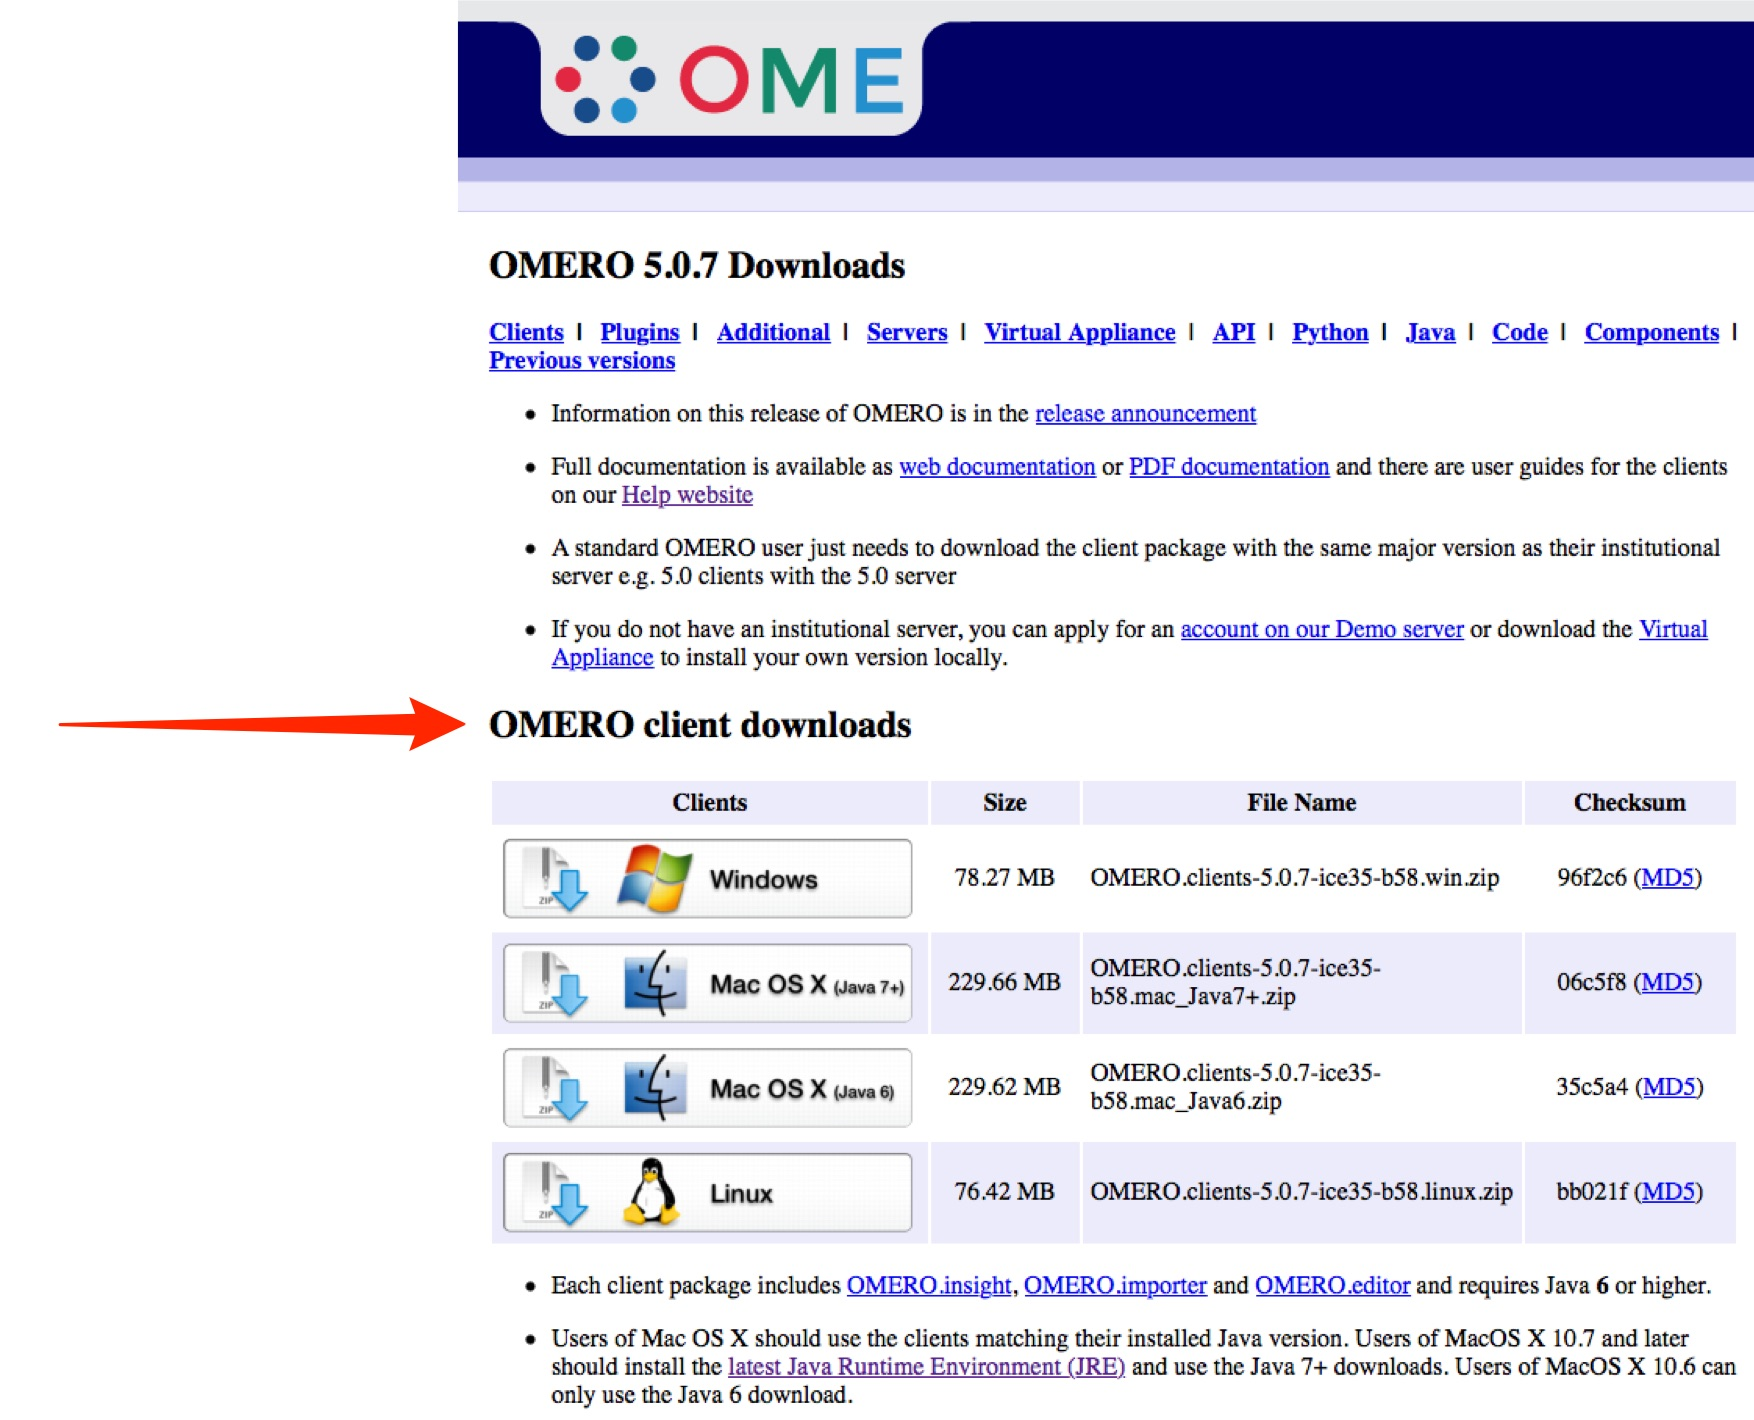
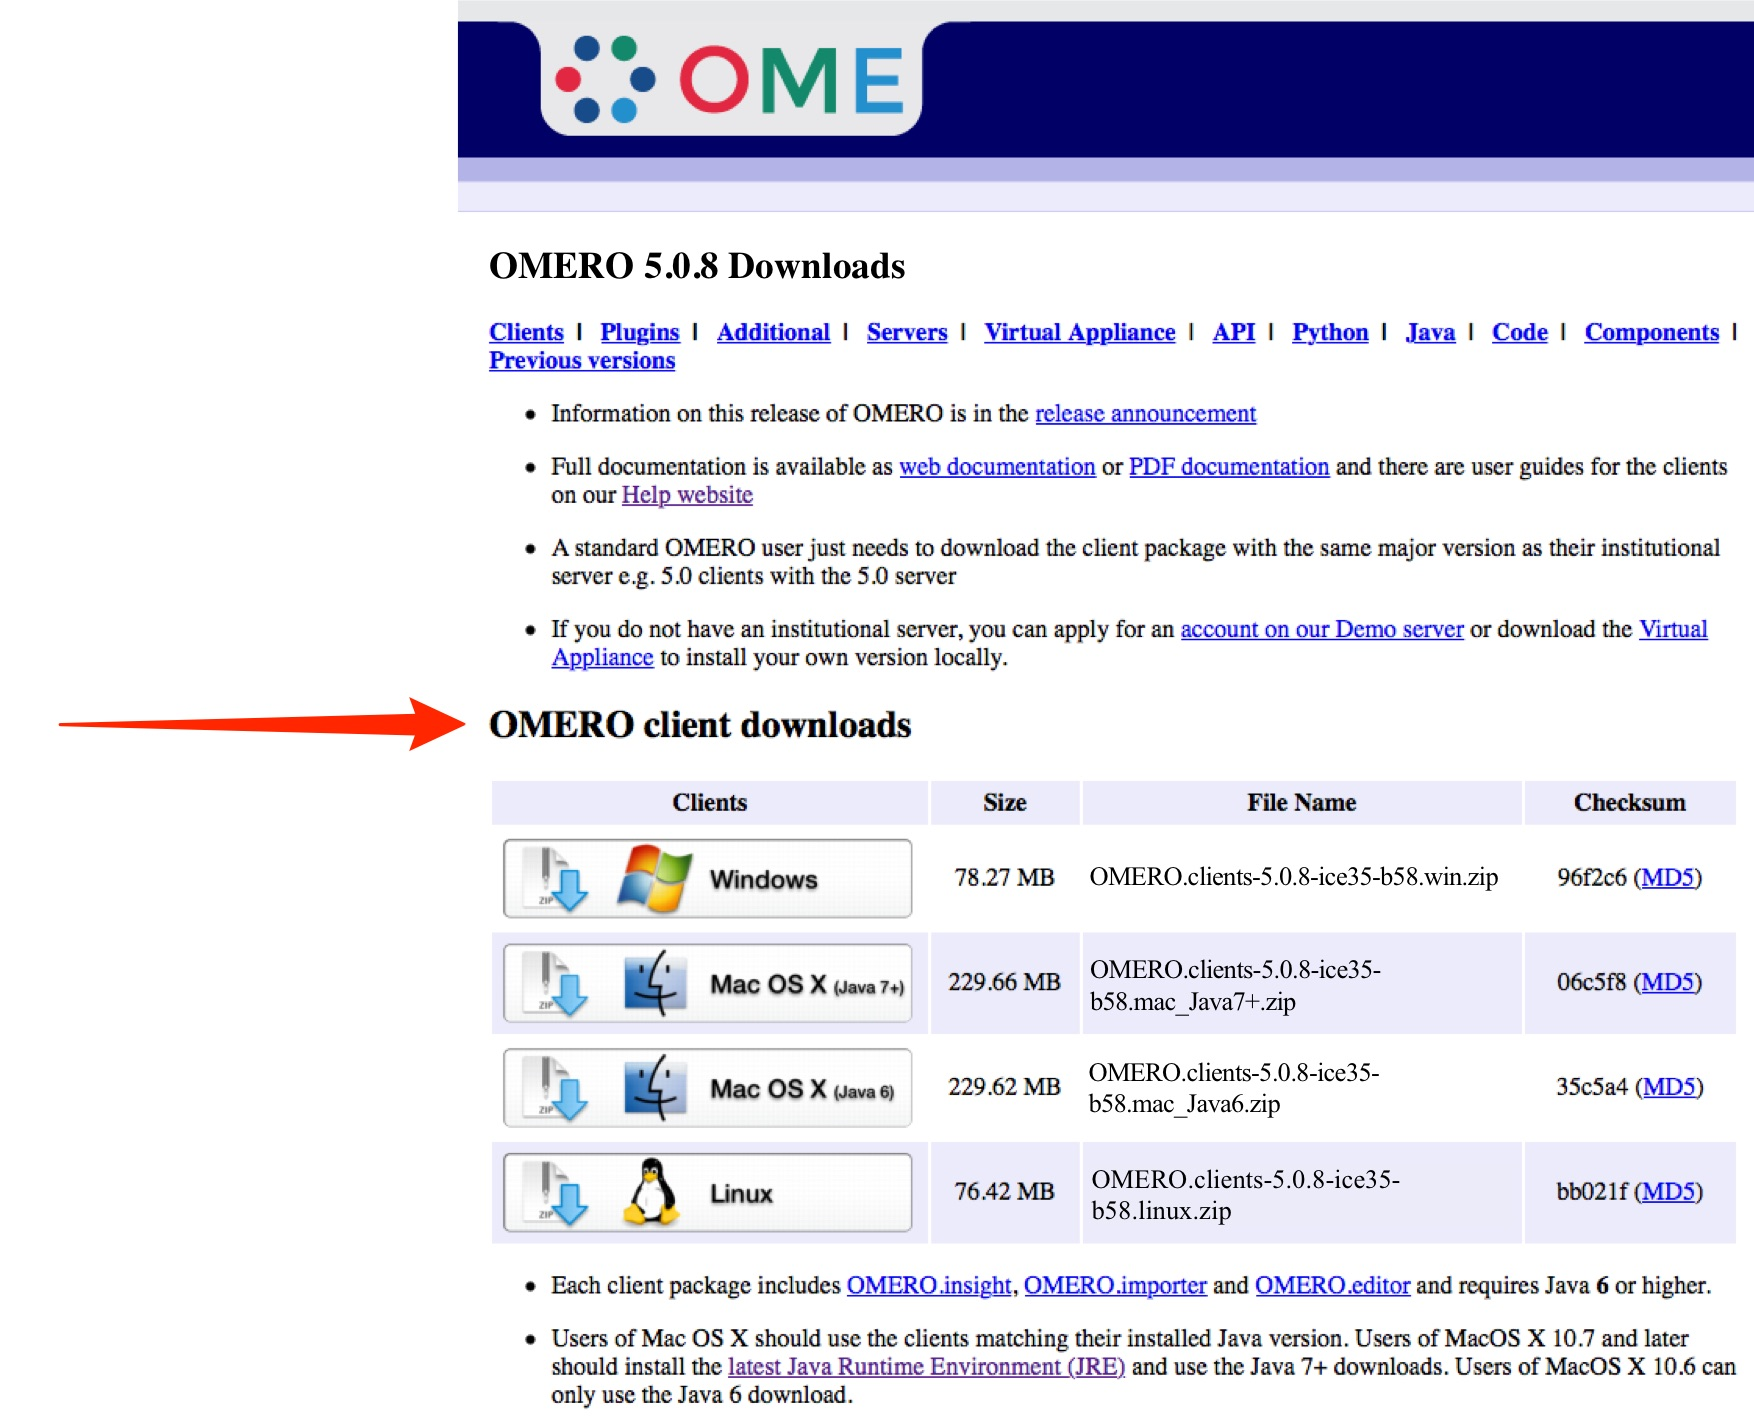
Update Help site to Version 5.0.8

Changed region(s): [[0.6157, 0.7437, 0.862, 0.8676], [0.6157, 0.5887, 0.8312, 0.7127], [0.2771, 0.1549, 0.5234, 0.2169]]

diff --git a/index.html b/index.html
@@ -7,7 +7,7 @@ description: The Home page for the User Help documentation for OMERO.insight, OM
 <p>The User Guides for the current versions are listed in the main menu, for all OMERO applications, including OMERO.insight, OMERO.web, OMERO.figure and OMERO in ImageJ and Fiji.</p>
 <p>The Guides for the current versions are listed in the main menu, and the <a href="previous.html"> Guides for Previous Versions</a> page has links to archives of older versions.</p>
 <p>The <a href="resources.html">Training Course Material</a> page contains links to material for printing out and using in training sessions, ZIP archives of the PDFs for all the current versions, customised versions of some of the Guides and other resources such as  Omnigraffle&reg; and Word&reg; files.</p>
-<p>The current release versions of OMERO.insight are 4.4.12 and 5.0.7. You can tell what version of OMERO.insight you are using by looking at the login screen.</p>
+<p>The current release versions of OMERO.insight are 5.0.8 and 4.4.12. You can tell what version of OMERO.insight you are using by looking at the login screen.</p>
 <p>&nbsp;</p>
 <p><img src="images/homeVersion.jpg" alt="OMERO.insight Version" style="width: 100%;"/></p>
 <p>&nbsp;</p>

diff --git a/previous.html b/previous.html
@@ -21,6 +21,8 @@ description: Accesss to Zip archives of all the previous versions of the User He
 <p>All User Guides for <a href="http://downloads.openmicroscopy.org/help/archives/OMERO_User_Guides_5_0_4.zip">Version 5.0.4</a> (Zipped PDF 176.6 MB)</p>
 <p>All User Guides for <a href="http://downloads.openmicroscopy.org/help/archives/OMERO_User_Guides_5_0_5.zip">Version 5.0.5</a> (Zipped PDF 181 MB)</p>
 <p>All User Guides for <a href="http://downloads.openmicroscopy.org/help/archives/OMERO_User_Guides_5_0_6.zip">Version 5.0.6</a> (Zipped PDF 181 MB)</p>
+<p>All User Guides for <a href="http://downloads.openmicroscopy.org/help/archives/OMERO_User_Guides_5_0_7.zip">Version 5.0.7</a> (Zipped PDF 181 MB)</p>
+
 
 <div class="line-block">
   <div class="line"><br /></div> <!-- end #line -->

diff --git a/resources.html b/resources.html
@@ -16,10 +16,10 @@ description: Suggestions for training Access to Zip archives of all the current 
 
 <ul>
 
-  <li>All User Guides for <a href="http://downloads.openmicroscopy.org/help/archives/OMERO_User_Guides_5_0_7.zip">Version 5.0.7</a> (Zipped PDF 181.1 MB)</li>
+  <li>All User Guides for <a href="http://downloads.openmicroscopy.org/help/archives/OMERO_User_Guides_5_0_8.zip">Version 5.0.8</a> (Zipped PDF 185 MB)</li>
   <br/>
 
-  <li>All User Guides for <a href="http://downloads.openmicroscopy.org/help/archives/OMERO_User_Guides_4_4_12.zip">Version 4.4.12</a> (Zipped PDF 186.1 MB)</li>
+  <li>All User Guides for <a href="http://downloads.openmicroscopy.org/help/archives/OMERO_User_Guides_4_4_12.zip">Version 4.4.12</a> (Zipped PDF 186 MB)</li>
   <br/>
 
 </ul>

diff --git a/_layouts/default.html b/_layouts/default.html
@@ -7,7 +7,7 @@ navigation:
       name: Quickstart User Guides
       open: yes
       children:
-          - name: Getting Started v. 5.0.7
+          - name: Getting Started v. 5.0.8
             link: getting-started-5.html
           - name: Getting Started v. 4.4.12
             link: getting-started-4.html
@@ -27,7 +27,7 @@ navigation:
       name: OMERO.insight
       open: no
       children:
-          - name: Importing Data v. 5.0.7
+          - name: Importing Data v. 5.0.8
             link: importing-data-5.html
           - name: Importing Data v. 4.4.12
             link: importing-data-4.html

diff --git a/getting-started-5.html b/getting-started-5.html
@@ -1,10 +1,10 @@
 ---
 layout: default
-title: Getting Started with OMERO.insight v. 5.0.7
+title: Getting Started with OMERO.insight v. 5.0.8
 menu-id: l1-quickstart
 pdfs:
     - getting-started-5.pdf
-description: Using OMERO.insight Version 5.0.7 to upload, view and download data from any personal computer.
+description: Using OMERO.insight Version 5.0.8 to upload, view and download data from any personal computer.
 ---
 <div class="page-navigation">
 <h2>Contents</h2>

diff --git a/importing-data-5.html b/importing-data-5.html
@@ -1,10 +1,10 @@
 ---
 layout: default
-title: Importing Data with OMERO.insight v. 5.0.7
+title: Importing Data with OMERO.insight v. 5.0.8
 menu-id: l1-insight
 pdfs:
     - importing-data-5.pdf
-description: Using OMERO.insight Version 5.0.7 to import image data onto the OMERO server.
+description: Using OMERO.insight Version 5.0.8 to import image data onto the OMERO server.
 ---
 <p>Using  OMERO.insight to import image data onto the OMERO server.</p>
 
